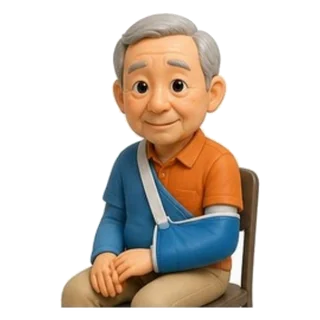
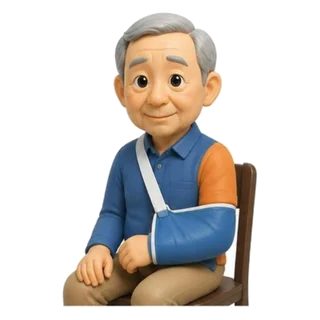
v56: 肩膀吊帶圖示換成 A 版（吊帶在無力側）
Claude-Session: https://claude.ai/code/session_01JY5CABcHjQtKa2tViAnZSV

Changed region(s): [[0.1875, 0.0312, 0.8125, 0.9688]]

diff --git a/sw.js b/sw.js
@@ -1,5 +1,5 @@
 // 腦中風 PAC 衛教：離線快取。每次更新內容，請把 VERSION 改成新的字串。
-const VERSION = "v55-1151018";
+const VERSION = "v56-1151018";
 const CACHE = "pac-edu-" + VERSION;
 const ASSETS = ["./", "index.html", "manifest.webmanifest", "icons/icon-192.png", "icons/icon-512.png", "icons/icon-maskable-512.png", "icons/apple-touch-icon.png", "img/ankle.webp", "img/banner.webp", "img/bathroom.webp", "img/bedside.webp", "img/bp.webp", "img/bridge.webp", "img/call119.webp", "img/cane.webp", "img/cards.webp", "img/caregiver.webp", "img/emblem.webp", "img/feeding.webp", "img/heelraise.webp", "img/home.webp", "img/ngtube.webp", "img/nightpath.webp", "img/posBack.webp", "img/posSit.webp", "img/posStrong.webp", "img/posWeak.webp", "img/sitstand.webp", "img/stairs.webp", "img/stairsup.webp", "img/stick.webp", "img/team.webp", "img/towel.webp", "img/turning.webp", "img/walker.webp", "img/wheelchair.webp", "img/steps/sitstand-1.webp", "img/steps/sitstand-2.webp", "img/steps/sitstand-3.webp", "img/steps/sitstand-4.webp", "img/steps/sitstand-5.webp", "img/steps/stairsup-1.webp", "img/steps/stairsup-2.webp", "img/steps/stairsup-3.webp", "img/steps/stairsup-4.webp", "img/steps/stairsup-5.webp", "fonts/huninn-sub.woff2", "fonts/mitr-thai-400.woff2", "fonts/mitr-thai-600.woff2", "fonts/nunito-latin-400.woff2", "fonts/nunito-latin-800.woff2", "fonts/nunito-vietnamese-400.woff2", "fonts/nunito-vietnamese-800.woff2", "pics/i-aFwd.webp", "pics/i-aSide.webp", "pics/i-aUp.webp", "pics/i-acp.webp", "pics/i-afo.webp", "pics/i-ankle.webp", "pics/i-armNo.webp", "pics/i-armOk.webp", "pics/i-armraise.webp", "pics/i-arms.webp", "pics/i-bal1.webp", "pics/i-bal3.webp", "pics/i-beancup.webp", "pics/i-bed.webp", "pics/i-bed30.webp", "pics/i-bell.webp", "pics/i-bone.webp", "pics/i-bowl.webp", "pics/i-bp.webp", "pics/i-bpcuff.webp", "pics/i-brainL.webp", "pics/i-brainR.webp", "pics/i-bridge.webp", "pics/i-brush.webp", "pics/i-cal7.webp", "pics/i-calcheck.webp", "pics/i-cane.webp", "pics/i-caneNo.webp", "pics/i-caneOk.webp", "pics/i-card.webp", "pics/i-cheek.webp", "pics/i-cheekPuff.webp", "pics/i-clock.webp", "pics/i-clothespin.webp", "pics/i-commode.webp", "pics/i-counter.webp", "pics/i-cpr.webp", "pics/i-cup.webp", "pics/i-dryswallow.webp", "pics/i-eatNo.webp", "pics/i-eatOk.webp", "pics/i-evalEnd.webp", "pics/i-evalMid.webp", "pics/i-evalStart.webp", "pics/i-face.webp", "pics/i-facedroop.webp", "pics/i-family.webp", "pics/i-footDrop.webp", "pics/i-footNo.webp", "pics/i-footUp.webp", "pics/i-glass.webp", "pics/i-glasses.webp", "pics/i-glucometer.webp", "pics/i-group.webp", "pics/i-hGrasp.webp", "pics/i-hReach.webp", "pics/i-hRelease.webp", "pics/i-hWrist.webp", "pics/i-handNo.webp", "pics/i-heelraise.webp", "pics/i-heimlich.webp", "pics/i-hipturn.webp", "pics/i-homesafe.webp", "pics/i-hospital.webp", "pics/i-house.webp", "pics/i-kneeNo.webp", "pics/i-kneelift.webp", "pics/i-lamp.webp", "pics/i-leaf.webp", "pics/i-legswell.webp", "pics/i-lobeF.webp", "pics/i-lobeO.webp", "pics/i-lobeP.webp", "pics/i-lobeT.webp", "pics/i-lowbed.webp", "pics/i-lunge.webp", "pics/i-mat.webp", "pics/i-mirror.webp", "pics/i-mmAssist.webp", "pics/i-mmThink.webp", "pics/i-mmTry.webp", "pics/i-money.webp", "pics/i-naming.webp", "pics/i-nosmoke.webp", "pics/i-ot.webp", "pics/i-path.webp", "pics/i-pegBoard.webp", "pics/i-phone.webp", "pics/i-pills.webp", "pics/i-posBack.webp", "pics/i-posSit.webp", "pics/i-posStrong.webp", "pics/i-posWeak.webp", "pics/i-pt.webp", "pics/i-rail.webp", "pics/i-salt.webp", "pics/i-scooter.webp", "pics/i-shift.webp", "pics/i-shoes.webp", "pics/i-shower.webp", "pics/i-sitEat.webp", "pics/i-sitstand.webp", "pics/i-sling.webp", "pics/i-speak.webp", "pics/i-st.webp", "pics/i-stairsDown.webp", "pics/i-stairsUp.webp", "pics/i-step1.webp", "pics/i-step2.webp", "pics/i-step3.webp", "pics/i-stickBar.webp", "pics/i-stretchNo.webp", "pics/i-stretchOk.webp", "pics/i-sun.webp", "pics/i-sunmoon.webp", "pics/i-talk.webp", "pics/i-tape.webp", "pics/i-tl1.webp", "pics/i-tl2.webp", "pics/i-tl3.webp", "pics/i-tl4.webp", "pics/i-tongueMove.webp", "pics/i-towelwipe.webp", "pics/i-tree1.webp", "pics/i-tree2.webp", "pics/i-tree3.webp", "pics/i-tree4.webp", "pics/i-tree5.webp", "pics/i-turn1.webp", "pics/i-turn2.webp", "pics/i-turn3.webp", "pics/i-turn4.webp", "pics/i-visit.webp", "pics/i-walk.webp", "pics/i-walker.webp", "pics/i-walkerFig.webp", "pics/i-wheelchair.webp", "pics/i-work.webp"];
 self.addEventListener("install", e => {

diff --git a/index.html b/index.html
@@ -9,7 +9,7 @@
 <meta property="og:type" content="website">
 <meta property="og:title" content="腦中風 PAC 衛教｜三軍總醫院松山分院">
 <meta property="og:description" content="給病人、家屬與看護的急性後期照護衛教，五種語言、可朗讀、可離線使用。">
-<meta property="og:image" content="https://huiting01682-png.github.io/index/img/og.jpg?v=v55-1151018">
+<meta property="og:image" content="https://huiting01682-png.github.io/index/img/og.jpg?v=v56-1151018">
 <meta property="og:image:width" content="1200"><meta property="og:image:height" content="630">
 <meta property="og:url" content="https://huiting01682-png.github.io/index/">
 <meta name="twitter:card" content="summary_large_image">
